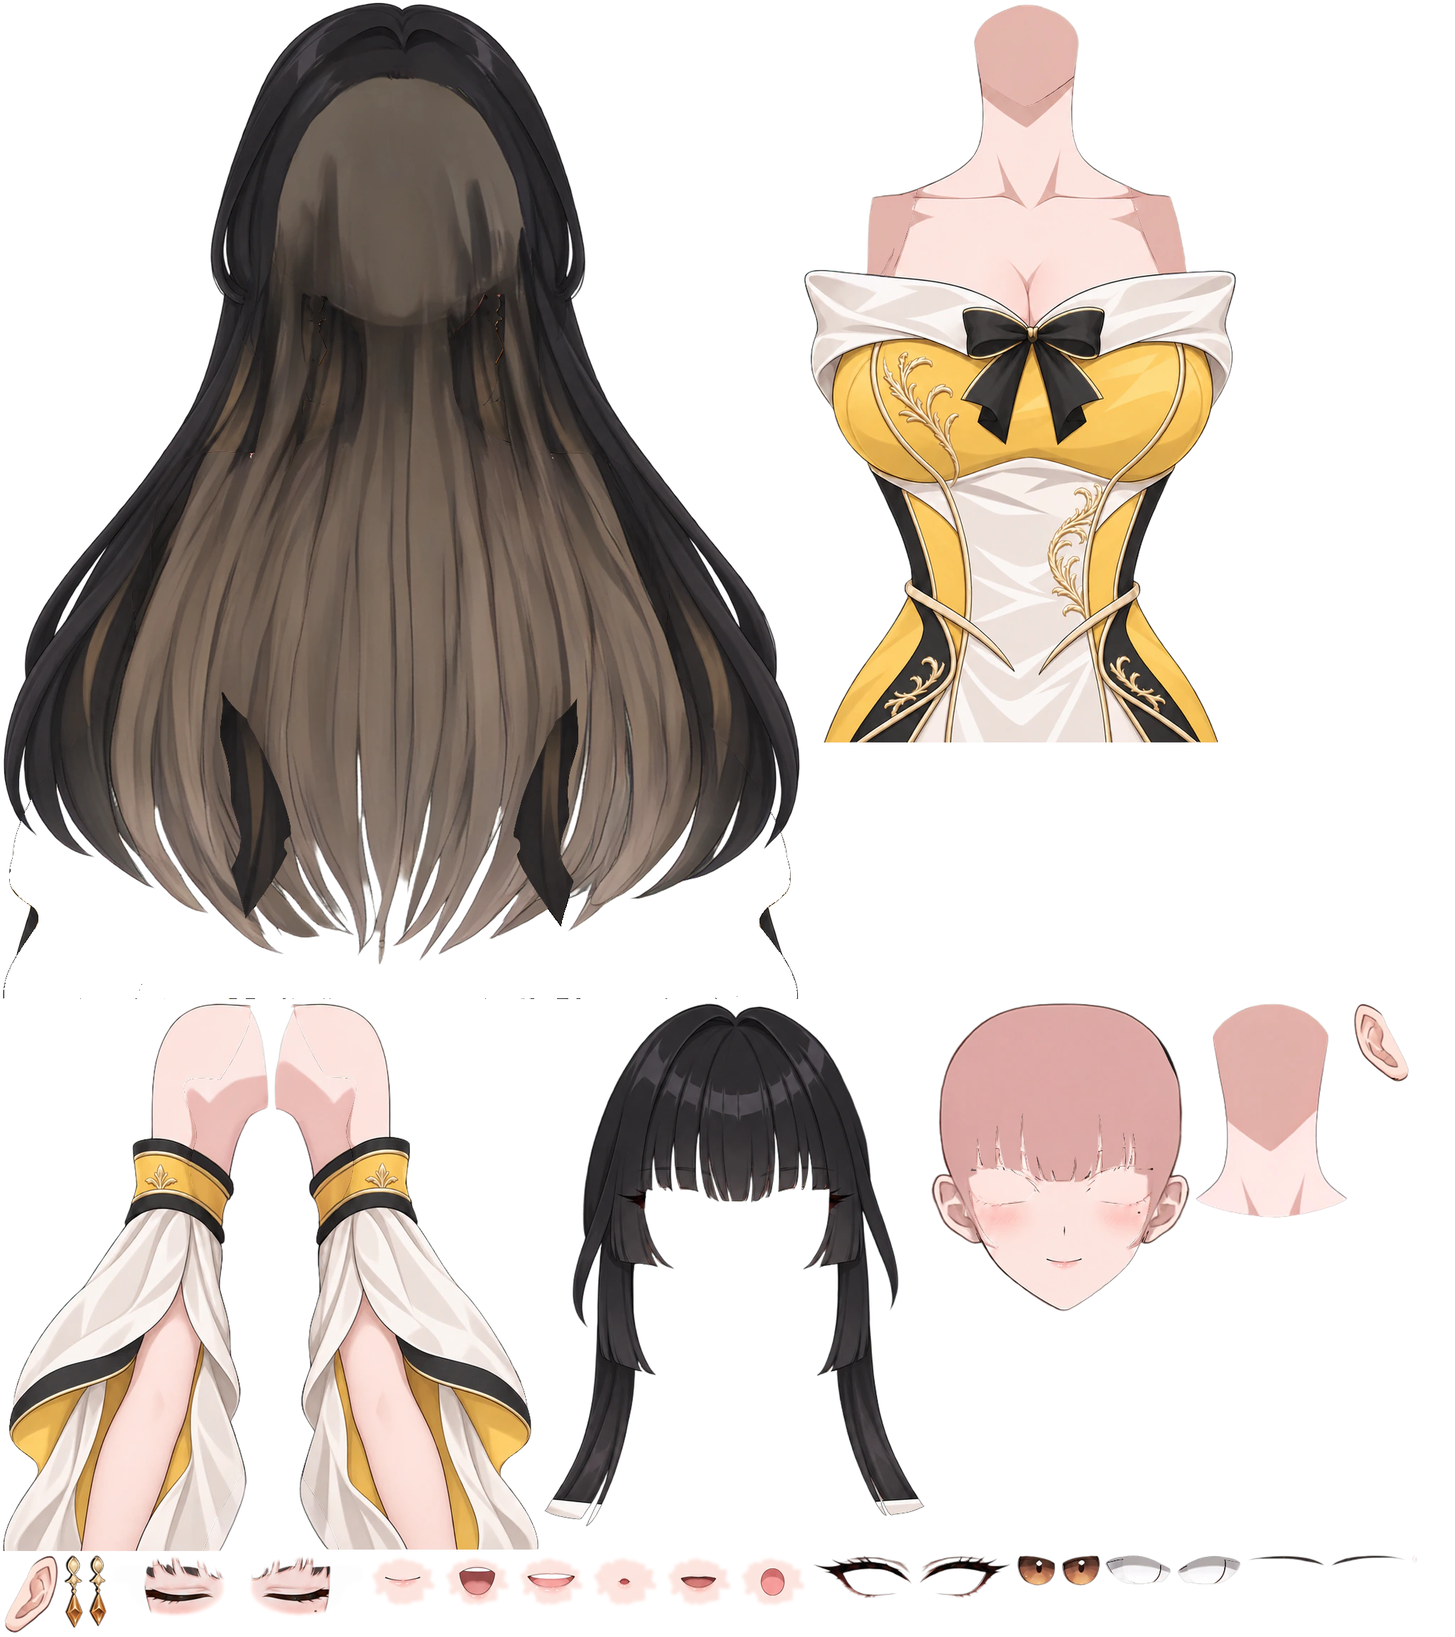
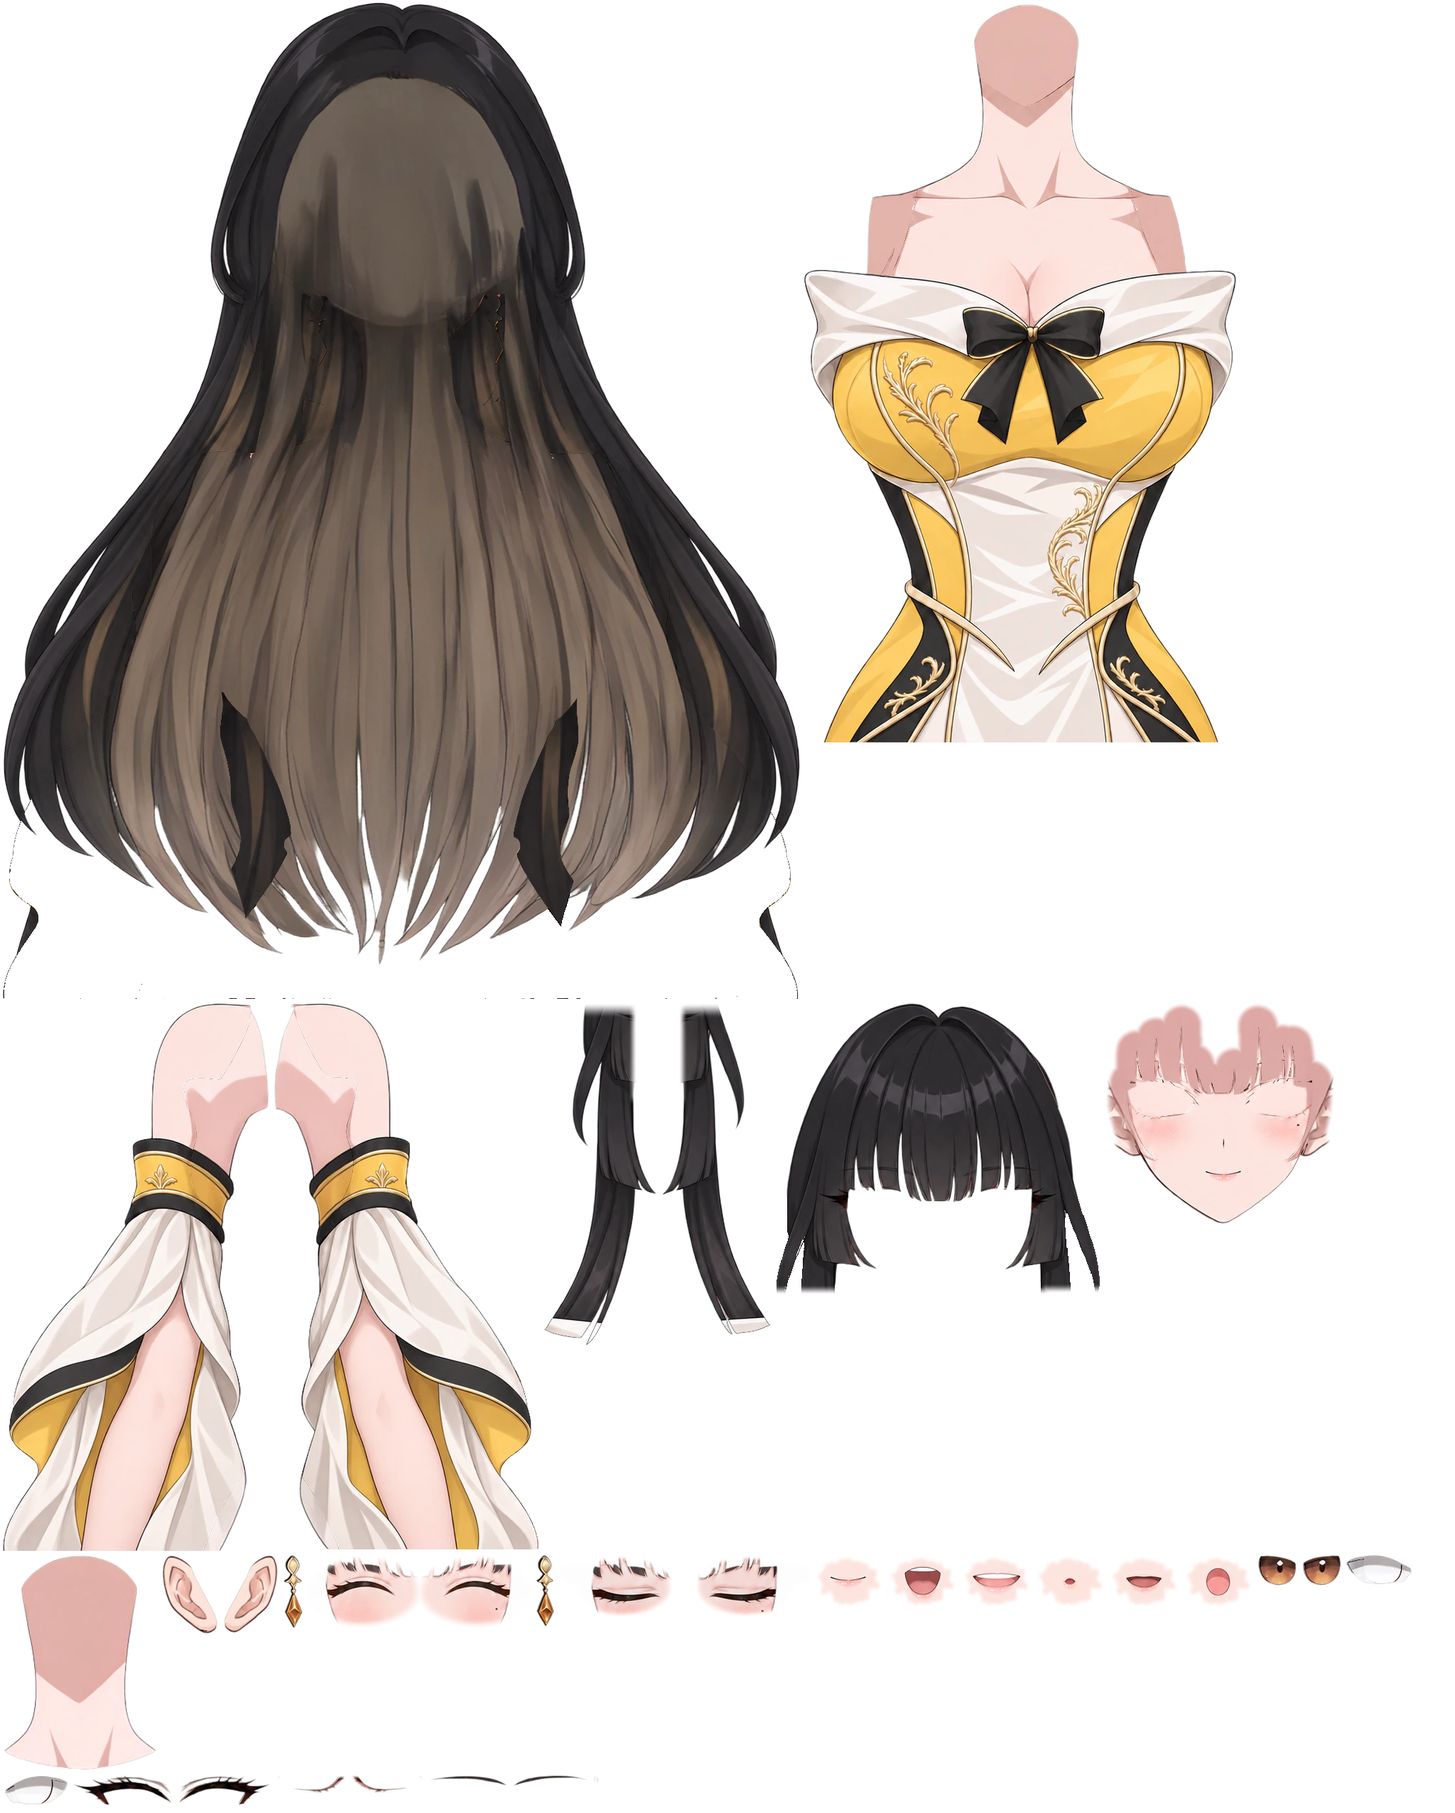
Make serve's phone character sway, laugh and look around (#148)
The body sways from the hips with the head leaning against it, the side locks swing on their own and lift as they go, the eyes smile while she talks and now and then close slowly into the artist's laughing eyes, and she glances away and back, turns with her body and leans in to listen. Blinks come at a natural rate and never around a smile.

diff --git a/src/serve.html b/src/serve.html
@@ -47,7 +47,7 @@
 
   // The character: drawn layers cut from one picture, moved like a 2.5D puppet. Coordinates are
   // pixels of the original drawing; each layer names its place there and in /character.webp.
-  const RIG = {"size":[1122,1402],"atlas":[2048,2304],"layers":[["back hair",0,0,1122,1402,4,4],["handwear-l",745,631,376,771,384,1410],["handwear-r",0,629,376,773,4,1410],["neck",460,326,218,306,1681,1410],["ears-l",669,302,80,113,4,2187],["ears-r",372,302,83,115,1903,1410],["topwear",253,361,612,1041,1130,4],["face",380,70,369,439,1308,1410],["nose",561,382,11,18,1985,2187],["earwear-r",427,406,31,107,88,2187],["earwear-l",677,406,29,105,123,2187],["mouth_closed",521,399,100,78,518,2187],["mouth_a",521,399,100,78,622,2187],["mouth_i",521,399,100,78,726,2187],["mouth_u",521,399,100,78,830,2187],["mouth_e",521,399,100,78,934,2187],["mouth_o",521,399,100,78,1038,2187],["eyebrow-r",420,269,115,19,1752,2187],["eyewhite-r",434,310,97,45,1554,2187],["eyewhite-l",603,309,93,45,1655,2187],["irides-r",458,309,58,47,1430,2187],["eyebrow-l",594,269,110,19,1871,2187],["irides-l",616,309,58,47,1492,2187],["eyelash-r",392,295,145,65,1142,2187],["eyelash-l",597,295,135,65,1291,2187],["blink",387,286,358,92,156,2187],["front hair",292,40,540,741,764,1410]],"neck":[568,585],"neckSpan":[329,630],"face":[565,272],"eyes":{"close":345},"mouth":[570,418,433],"earrings":{"earwear-r":[442,409],"earwear-l":[691,409]},"strands":{"front hair":[[343,393,768],[447,79,564],[557,54,320],[616,50,300],[676,89,409],[789,402,761]],"back hair":[[33,905,1160],[195,674,1239],[374,97,1333],[607,4,1324],[816,334,1294],[1088,912,1174]]}};
+  const RIG = {"size":[1122,1402],"atlas":[2048,2552],"layers":[["back hair",0,0,1122,1402,4,4],["handwear-l",745,631,376,771,384,1410],["handwear-r",0,629,376,773,4,1410],["neck",460,326,218,306,4,2187],["ears-l",669,302,80,113,313,2187],["ears-r",372,302,83,115,226,2187],["topwear",253,361,612,1041,1130,4],["face",402,193,327,316,1554,1410],["nose",561,382,11,17,833,2497],["earwear-r",427,406,31,107,397,2187],["earwear-l",677,406,29,105,753,2187],["mouth_closed",521,399,100,78,1145,2187],["mouth_a",521,399,100,78,1249,2187],["mouth_i",521,399,100,78,1353,2187],["mouth_u",521,399,100,78,1457,2187],["mouth_e",521,399,100,78,1561,2187],["mouth_o",521,399,100,78,1665,2187],["eyebrow-r",420,269,115,19,601,2497],["eyewhite-r",434,310,97,45,1893,2187],["eyewhite-l",603,309,93,45,4,2497],["irides-r",458,309,58,47,1769,2187],["eyebrow-l",594,269,109,19,720,2497],["irides-l",616,309,58,47,1831,2187],["eyelash-r",392,295,144,45,101,2497],["lid-r",431,331,105,29,492,2497],["eyelash-l",598,295,134,45,249,2497],["lid-l",597,330,101,30,387,2497],["blink",388,286,355,92,786,2187],["laugh",408,289,317,107,432,2187],["front hair",334,40,459,414,1091,1410],["lock-r",292,295,162,486,764,1410],["lock-l",675,295,157,471,930,1410]],"neck":[568,585],"neckSpan":[329,630],"face":[565,272],"eyes":{"r":[486,331],"l":[646,331],"close":345},"mouth":[570,418,433],"earrings":{"earwear-r":[442,409],"earwear-l":[691,409]},"strands":{"front hair":[[447,79,564],[557,54,320],[616,50,300],[676,89,409]],"back hair":[[33,905,1160],[195,674,1239],[374,97,1333],[607,4,1324],[816,334,1294],[1088,912,1174]]},"locks":{"lock-r":[383,308,776],"lock-l":[734,308,761]},"lids":{"r":335,"l":334},"bangs":[418,706]};
 
   const character = (() => {
     const canvas = document.querySelector('canvas');
@@ -57,8 +57,14 @@
     const VOWELS = ['a', 'i', 'u', 'e', 'o'];
     const DEPTH = {
       'back hair': .55, ears: .85, earwear: .95, nose: 1.12, mouth: 1.06, eyebrow: 1.05,
-      eyewhite: 1.04, irides: 1.04, eyelash: 1.04, blink: 1.04, 'front hair': 1.25, topwear: .9, neck: .95,
+      eyewhite: 1.04, irides: 1.04, eyelash: 1.04, lid: 1.04, blink: 1.04, laugh: 1.04, 'front hair': 1.25, lock: 1.25,
+      topwear: .9, neck: .95,
     };
+    const LIDS = ['eyewhite', 'eyelash', 'lid'], LEAN = .045;
+    // The bangs, with the short pieces beside the face, span between the side locks.
+    const BANGS = RIG.bangs;
+    // The middle and half width of each eye, from its white.
+    const EYES = Object.fromEntries(RIG.layers.filter(([n]) => n.startsWith('eyewhite')).map(([n, x, , w]) => [n.slice(-1), [x + w / 2, w / 2]]));
     const BODY = ['topwear', 'handwear', 'neck'];
     const calm = matchMedia('(prefers-reduced-motion: reduce)');
     const smooth = (t) => (t = Math.min(1, Math.max(0, t)), t * t * (3 - 2 * t));
@@ -66,7 +72,7 @@
 
     const layers = RIG.layers.map(([name, x, y, w, h, u, v]) => {
       const kind = name.replace(/[-_].*$/, '');
-      const cell = kind.endsWith('hair') || kind === 'earwear' ? 28 : 56;
+      const cell = kind.endsWith('hair') || kind === 'lock' || kind === 'earwear' ? 28 : LIDS.includes(kind) ? 12 : 56;
       const nx = Math.max(1, Math.round(w / cell)), ny = Math.max(1, Math.round(h / cell));
       const base = [], uv = [], index = [];
       for (let j = 0; j <= ny; j++) {
@@ -88,6 +94,9 @@
       layer.at = new Float32Array(layer.base);
       layer.pivot = RIG.earrings[name];
       if (layer.pivot) layer.spring = { x: 0, v: 0, swing: 0 };
+      // A side lock hangs from the temple: a stiff spring bends its upper part, a soft one carries the tip.
+      layer.lock = RIG.locks[name];
+      if (layer.lock) layer.springs = [{ stiff: { x: 0, v: 0 }, soft: { x: 0, v: 0 }, phase: name.endsWith('l') ? 4.1 : 1.3 }];
       const strands = RIG.strands[name];
       if (strands) hair(layer, strands, kind === 'front hair');
       return layer;
@@ -114,15 +123,20 @@
         let u = Math.min(1, Math.max(0, (y - root) / Math.max(1, tip - root)));
         if (front) u = Math.min(1, u * 1.6);
         layer.amount[v] = u ** (front ? 1.8 : 2.1) * 2;
+        // Only the bangs swing; the sides of the crown stay joined to the side locks hanging below.
+        if (front) layer.amount[v] *= 1 - smooth(Math.max(BANGS[0] - x, x - BANGS[1]) / 25);
         layer.loose[v] = Math.min(1, u ** 1.2 * (front ? .4 : 2));
       }
     }
 
     // ---- motion ----
-    const cur = { ax: 0, ay: 0, az: 0, body: 0, ex: 0, ey: 0, brow: 0, nod: 0 };
+    const cur = { ax: 0, ay: 0, az: 0, body: 0, ex: 0, ey: 0, brow: 0, nod: 0, smile: 0, sway: .5, near: 0, happy: 0 };
     const goal = { ax: 0, ay: 0, az: 0, body: 0, ex: 0, ey: 0 };
     const mouth = { open: 0, shape: 0, weights: [0, 0, 0, 0, 0], loud: 0, slow: 0 };
-    let nextLook = 0, nextBlink = 1.2, blinkAt = -1, heard = 0;
+    let nextLook = 0, nextBlink = 1.2, blinkAt = -1, blinked = 0, heard = 0, phase = 0;
+    // A phrase ends where the voice rests after talking a while; she smiles and tilts her head there.
+    // About half of those smiles are laughs, with the drawn laughing eyes.
+    let talked = 0, quiet = 0, beamAt = -9, beamSide = 1, nextBeam = 6, laugh = false;
 
     function spring(s, target, k, damping, dt) {
       const steps = Math.ceil(dt * 120), h = dt / steps;
@@ -136,15 +150,18 @@
       const mood = document.body.dataset.state, still = calm.matches ? .3 : 1;
       if (t > nextLook) {
         // A new glance every few seconds; the head follows it, slower than the eyes.
-        nextLook = t + 1.4 + Math.random() * 2.6;
-        const span = mood ? .55 : 1;
-        goal.ax = random() * .55 * span;
+        // Talking, she looks around more often and comes back to you about half the time.
+        const talking = mood === 'boubou', span = talking ? 2 : mood ? .55 : 1;
+        nextLook = t + (talking ? .7 + Math.random() * 1.5 : 1.4 + Math.random() * 2.6);
+        const back = talking && Math.random() < .45;
+        goal.ax = back ? random() * .2 : random() * .55 * span;
         goal.ay = random() * .35 * span;
         goal.az = random() * .3 * span + (mood === 'you' ? .25 : 0);
         goal.body = random() * .3 * span;
-        goal.ex = random() * (mood ? .25 : .6);
-        goal.ey = random() * (mood ? .15 : .35);
-        if (Math.random() < .3 && blinkAt < 0) nextBlink = t;
+        goal.ex = back ? 0 : random() * (talking ? .75 : mood ? .25 : .6);
+        goal.ey = back ? 0 : random() * (talking ? .45 : mood ? .15 : .35);
+        // A big look sometimes brings a blink, but not right after another one.
+        if (Math.random() < .12 && blinkAt < 0 && t > blinked + 2.5) nextBlink = t;
       }
       const voice = speech(), level = voice ? voice.level : 0;
       mouth.loud += (level - mouth.loud) * (1 - Math.exp(-dt * 18));
@@ -152,28 +169,52 @@
       const stress = Math.max(0, mouth.loud - mouth.slow - .08);
       heard *= Math.exp(-dt * 3);
 
-      const head = 1 - Math.exp(-dt * 4), eyes = 1 - Math.exp(-dt * 18);
+      if (level > .12) talked += dt, quiet = 0;
+      else if ((quiet += dt) > .2 && talked > .7) talked = 0, beamAt = t, beamSide = -beamSide, laugh = Math.random() < .25;
+      if (quiet > 2) talked = 0;
+      // Now and then a smile of her own, more often while someone is there.
+      if (t > nextBeam) {
+        if (!level && beamAt < t - 2) beamAt = t, beamSide = Math.random() < .5 ? -1 : 1, laugh = Math.random() < .2;
+        nextBeam = t + (mood ? 4 : 7) + Math.random() * 6;
+      }
+      // A laugh lasts longer than a smile: the eyes smile first, close slowly, and open slowly.
+      const beam = Math.max(0, Math.sin(Math.min(1, (t - beamAt) / (laugh ? 2.4 : 1.5)) * Math.PI));
+      cur.happy = laugh && !calm.matches ? smooth((beam - .25) / .5) : 0;
+
+      // The whole body sways from the hips, the head leaning the other way a moment later.
+      const energy = mood === 'boubou' ? .85 + mouth.slow * .5 : mood === 'you' ? .7 : .55;
+      cur.sway += (energy * still - cur.sway) * (1 - Math.exp(-dt * 1.5));
+      phase += dt * 2 * Math.PI / (mood === 'boubou' ? 2.9 : 3.6);
+      const sway = cur.sway * (Math.sin(phase) + .22 * Math.sin(2 * phase + 1.1));
+      const head = 1 - Math.exp(-dt * (mood === 'boubou' ? 6 : 4)), eyes = 1 - Math.exp(-dt * 18);
       const drift = {
-        ax: .13 * Math.sin(t * .42) + .05 * Math.sin(t * 1.13),
-        ay: .08 * Math.sin(t * .31 + 1.7),
-        az: .07 * Math.sin(t * .23 + .5),
-        body: .1 * Math.sin(t * .19 + 2.1),
+        ax: .13 * Math.sin(t * .42) + .05 * Math.sin(t * 1.13) + (mood === 'boubou' ? .5 : .25) * sway,
+        ay: .08 * Math.sin(t * .31 + 1.7) + .12 * cur.sway * Math.sin(2 * phase - .4),
+        az: .07 * Math.sin(t * .23 + .5) - .9 * cur.sway * Math.sin(phase - .55) + beam * beamSide * .7,
+        body: sway,
       };
       for (const key of ['ax', 'ay', 'az', 'body']) cur[key] += ((goal[key] + drift[key]) * still - cur[key]) * head;
       cur.ex += (goal.ex - cur.ex) * eyes;
       cur.ey += (goal.ey - cur.ey) * eyes;
       // Stressed syllables nod the head and lift the brows; so does the listener's own voice.
-      cur.nod += (stress * 1.4 + heard * .25 - cur.nod) * (1 - Math.exp(-dt * 10));
-      cur.brow += (Math.min(1, stress * 2.5) - cur.brow) * (1 - Math.exp(-dt * 8));
+      cur.nod += (stress * 1.4 + heard * .25 + beam * .35 - cur.nod) * (1 - Math.exp(-dt * 10));
+      cur.brow += (Math.min(1, stress * 2.5 + beam * .4) - cur.brow) * (1 - Math.exp(-dt * 8));
+      // Her eyes smile while she talks, a little while she listens, fully at the end of a phrase.
+      const warm = mood === 'boubou' ? .35 + Math.min(.25, stress * 2) : mood === 'you' ? .25 : .08;
+      cur.smile += (Math.max(warm, beam * .95) - cur.smile) * (1 - Math.exp(-dt * 7));
+      // She leans in to listen.
+      cur.near += ((mood === 'you' ? .8 + heard * .6 : mood === 'boubou' ? .35 : 0) * still - cur.near) * (1 - Math.exp(-dt * 2));
 
       let open = 1;
-      if (blinkAt < 0 && t > nextBlink) blinkAt = t;
+      // No blink during a smile or just after it: closing and opening around one looks abrupt.
+      if (blinkAt < 0 && t > nextBlink && t > beamAt + (laugh ? 2.4 : 1.5) + 1.2) blinkAt = t;
       if (blinkAt >= 0) {
         const d = t - blinkAt;
         open = d < .07 ? 1 - d / .07 : d < .12 ? 0 : smooth((d - .12) / .16);
         if (d >= .28) {
           blinkAt = -1;
-          nextBlink = t + (Math.random() < .15 ? .1 : 1.6 + Math.random() * 3.8);
+          blinked = t;
+          nextBlink = t + (Math.random() < .08 ? .1 : 2.2 + Math.random() * 3.3);
         }
       }
 
@@ -183,14 +224,16 @@
       mouth.weights.forEach((w, i) => (mouth.weights[i] += ((shape === i + 1 ? 1 : 0) - w) * fade));
       mouth.open += (level - mouth.open) * fade;
 
-      const wind = calm.matches ? 0 : 1;
-      const shift = (cur.ax * 14 + cur.az * .07 * (NY - FY)) * FS;
+      const wind = calm.matches ? 0 : 1, lean = cur.body * LEAN;
+      // Where the head has moved to, counting the lean of the body; hair trails behind it.
+      const shift = (cur.ax * 14 + cur.az * .07 * (NY - FY)) * FS + lean * (H - FY);
       for (const layer of layers) {
         if (layer.springs) {
+          const slack = layer.lock ? 1.5 : 1;
           for (const s of layer.springs) {
-            const gust = (1.2 * Math.sin(t * .8 + s.phase) + .7 * Math.sin(t * 1.9 + s.phase * 2.3)) * wind * FS;
-            spring(s.stiff, shift + gust * .5, 70, 9, dt);
-            spring(s.soft, shift + gust, 16, 1.3, dt);
+            const gust = (1.2 * Math.sin(t * .8 + s.phase) + .7 * Math.sin(t * 1.9 + s.phase * 2.3)) * wind * FS * slack;
+            spring(s.stiff, shift + gust * .5, layer.lock ? 40 : 70, layer.lock ? 6 : 9, dt);
+            spring(s.soft, shift + gust, layer.lock ? 11 : 16, layer.lock ? .9 : 1.3, dt);
           }
           layer.shift = shift;
         }
@@ -201,7 +244,9 @@
         }
       }
       return {
-        ...cur, ay: cur.ay - cur.nod * .5, open,
+        // A laugh shuts the eyes like a blink, then the drawn laughing eyes take over.
+        ...cur, ay: cur.ay - cur.nod * .5, open: Math.min(open, 1 - cur.happy * 1.15), lean,
+        happy: smooth((cur.happy - .7) / .25), smile: cur.smile * (calm.matches ? .5 : 1),
         breath: .5 + .5 * Math.sin(t * 2 * Math.PI / 3.4),
         lag: .5 + .5 * Math.sin(t * 2 * Math.PI / 3.4 - .6),
       };
@@ -209,8 +254,9 @@
 
     function alpha(layer, p) {
       const eyes = smooth((p.open - .235) / .15);
-      if (['eyewhite', 'irides', 'eyelash'].includes(layer.kind)) return eyes;
-      if (layer.kind === 'blink') return 1 - eyes;
+      if (LIDS.includes(layer.kind) || layer.kind === 'irides') return eyes;
+      if (layer.kind === 'blink') return (1 - eyes) * (1 - p.happy);
+      if (layer.kind === 'laugh') return p.happy;
       if (layer.kind === 'mouth' && layer.name !== 'mouth_closed') {
         return mouth.weights[VOWELS.indexOf(layer.name.slice(6))];
       }
@@ -221,11 +267,18 @@
       const b = layer.base, o = layer.at, k = layer.kind, d = layer.depth;
       const az = p.az * .07, cz = Math.cos(az), sz = Math.sin(az);
       const swing = layer.spring?.swing ?? 0, cs = Math.cos(swing), ss = Math.sin(swing);
-      const n = layer.springs?.length ?? 0;
+      const n = layer.lock ? 0 : layer.springs?.length ?? 0;
+      const [ex, half] = EYES[layer.side] ?? [0, 1], mid = RIG.lids[layer.side];
       for (let i = 0, v = 0; i < b.length; i += 2, v++) {
         let x = b[i], y = b[i + 1];
-        if (k === 'eyewhite' || k === 'eyelash') y = CLOSE + (y - CLOSE) * (1 - .85 * (1 - p.open));
-        else if (k === 'irides') {
+        if (LIDS.includes(k)) {
+          // A smile pushes the lower lid up in an arch, and the eye white with it; the upper lid dips a little.
+          const arch = Math.max(0, 1 - ((x - ex) / (half * 1.15)) ** 2) ** .6 * p.smile * FS;
+          if (k === 'lid') y -= arch * 10;
+          else if (k === 'eyewhite') y -= arch * 10 * smooth((y - mid + 4) / 18);
+          else y += arch * 2.5 * smooth((mid - y) / 30);
+          y = CLOSE + (y - CLOSE) * (1 - .85 * (1 - p.open));
+        } else if (k === 'irides') {
           x += p.ex * 7;
           y += p.ey * 4;
           y = CLOSE + (y - CLOSE) * (1 - .8 * smooth((.32 - p.open) / .32));
@@ -243,12 +296,26 @@
             dx += w * ((sp.stiff.x - layer.shift) * (1 - loose) + (sp.soft.x - layer.shift) * loose);
           }
           x += dx * layer.amount[v];
-          y += Math.abs(dx) * layer.amount[v] * .12;
+          y -= Math.abs(dx) * layer.amount[v] * .08;
+        }
+        if (layer.lock) {
+          // Bent like a hanging chain: the upper part by the stiff spring, the tip by the soft one,
+          // and the tip lifts as it swings out.
+          const [, top, bottom] = layer.lock, length = bottom - top, u = smooth((y - top) / length);
+          const sp = layer.springs[0], root = sp.stiff.x - layer.shift, tip = sp.soft.x - layer.shift;
+          const dx = 1.3 * (root * u * (1 - u) * 2 + tip * u ** 1.6);
+          x += dx;
+          y -= dx * dx / length * .9;
         }
         if (layer.pivot) {
           const [px, py] = layer.pivot, rx = x - px, ry = y - py;
           x = px + rx * cs - ry * ss;
           y = py + rx * ss + ry * cs;
+        }
+        if (!layer.head || k === 'back hair') {
+          // The body turns with the head, less than it: the side turning away narrows.
+          const turn = p.ax * .5 * (layer.head ? smooth((y - NY) / 300) : 1), rx = x - NX;
+          x = NX + rx * (1 - turn * .06 * Math.sign(rx)) + turn * 9 * FS;
         }
         let follow = layer.head ? 1 : k === 'neck' ? .55 * smooth((NB - y) / (NB - NT)) : .16;
         if (k === 'back hair') follow *= 1 - .5 * smooth((y - NY) / 700);
@@ -256,7 +323,8 @@
           const rx = x - NX, ry = y - NY;
           x += (rx * cz - ry * sz - rx) * follow;
           y += (rx * sz + ry * cz - ry) * follow;
-          x += follow * FS * (p.ax * (14 + 40 * (d - 1)) + p.ax * (NY - y) * .028);
+          // Depth parallax levels off for big turns, so layers never part far enough to show a gap.
+          x += follow * FS * (p.ax * 14 + Math.tanh(p.ax) * 40 * (d - 1) + p.ax * (NY - y) * .028);
           y += follow * FS * (-p.ay * (9 + 30 * (d - 1)) - p.ay * (d - 1) * (y - FY) * .05);
         }
         y -= (layer.head ? p.lag * 1.6 : p.breath * 2) * FS;
@@ -267,14 +335,12 @@
         o[i] = x;
         o[i + 1] = y;
       }
-      const lean = p.body * .028;
-      if (Math.abs(lean) > 1e-4) {
-        const c = Math.cos(lean), s = Math.sin(lean);
-        for (let i = 0; i < o.length; i += 2) {
-          const rx = o[i] - NX, ry = o[i + 1] - H;
-          o[i] = NX + rx * c - ry * s;
-          o[i + 1] = H + rx * s + ry * c;
-        }
+      // The body leans from the hips, and comes a little closer when she listens.
+      const zoom = 1 + p.near * .03, c = Math.cos(p.lean) * zoom, s = Math.sin(p.lean) * zoom;
+      for (let i = 0; i < o.length; i += 2) {
+        const rx = o[i] - NX, ry = o[i + 1] - H;
+        o[i] = NX + rx * c - ry * s;
+        o[i + 1] = H + rx * s + ry * c;
       }
     }
 
